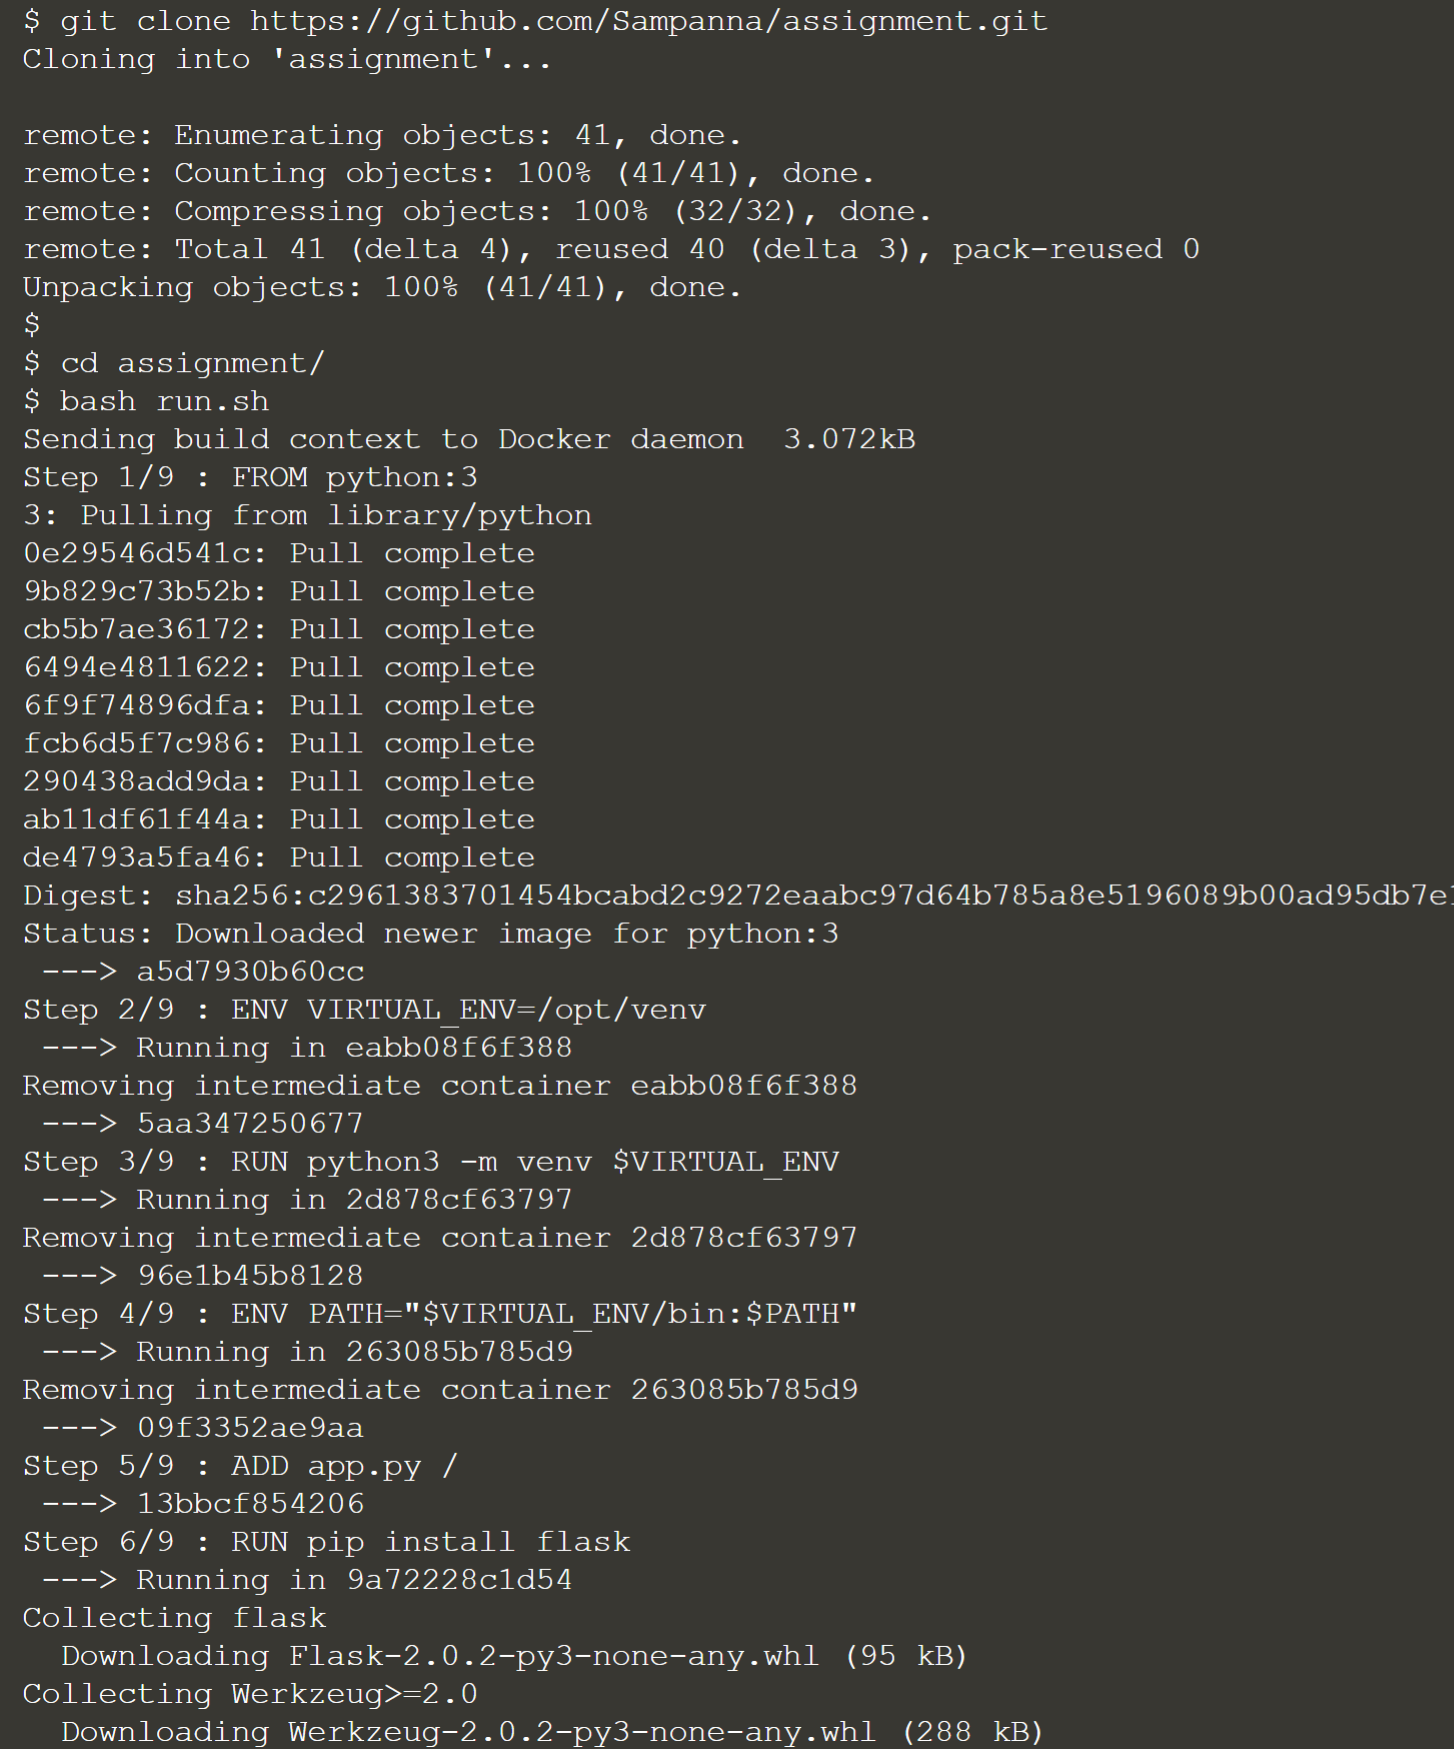
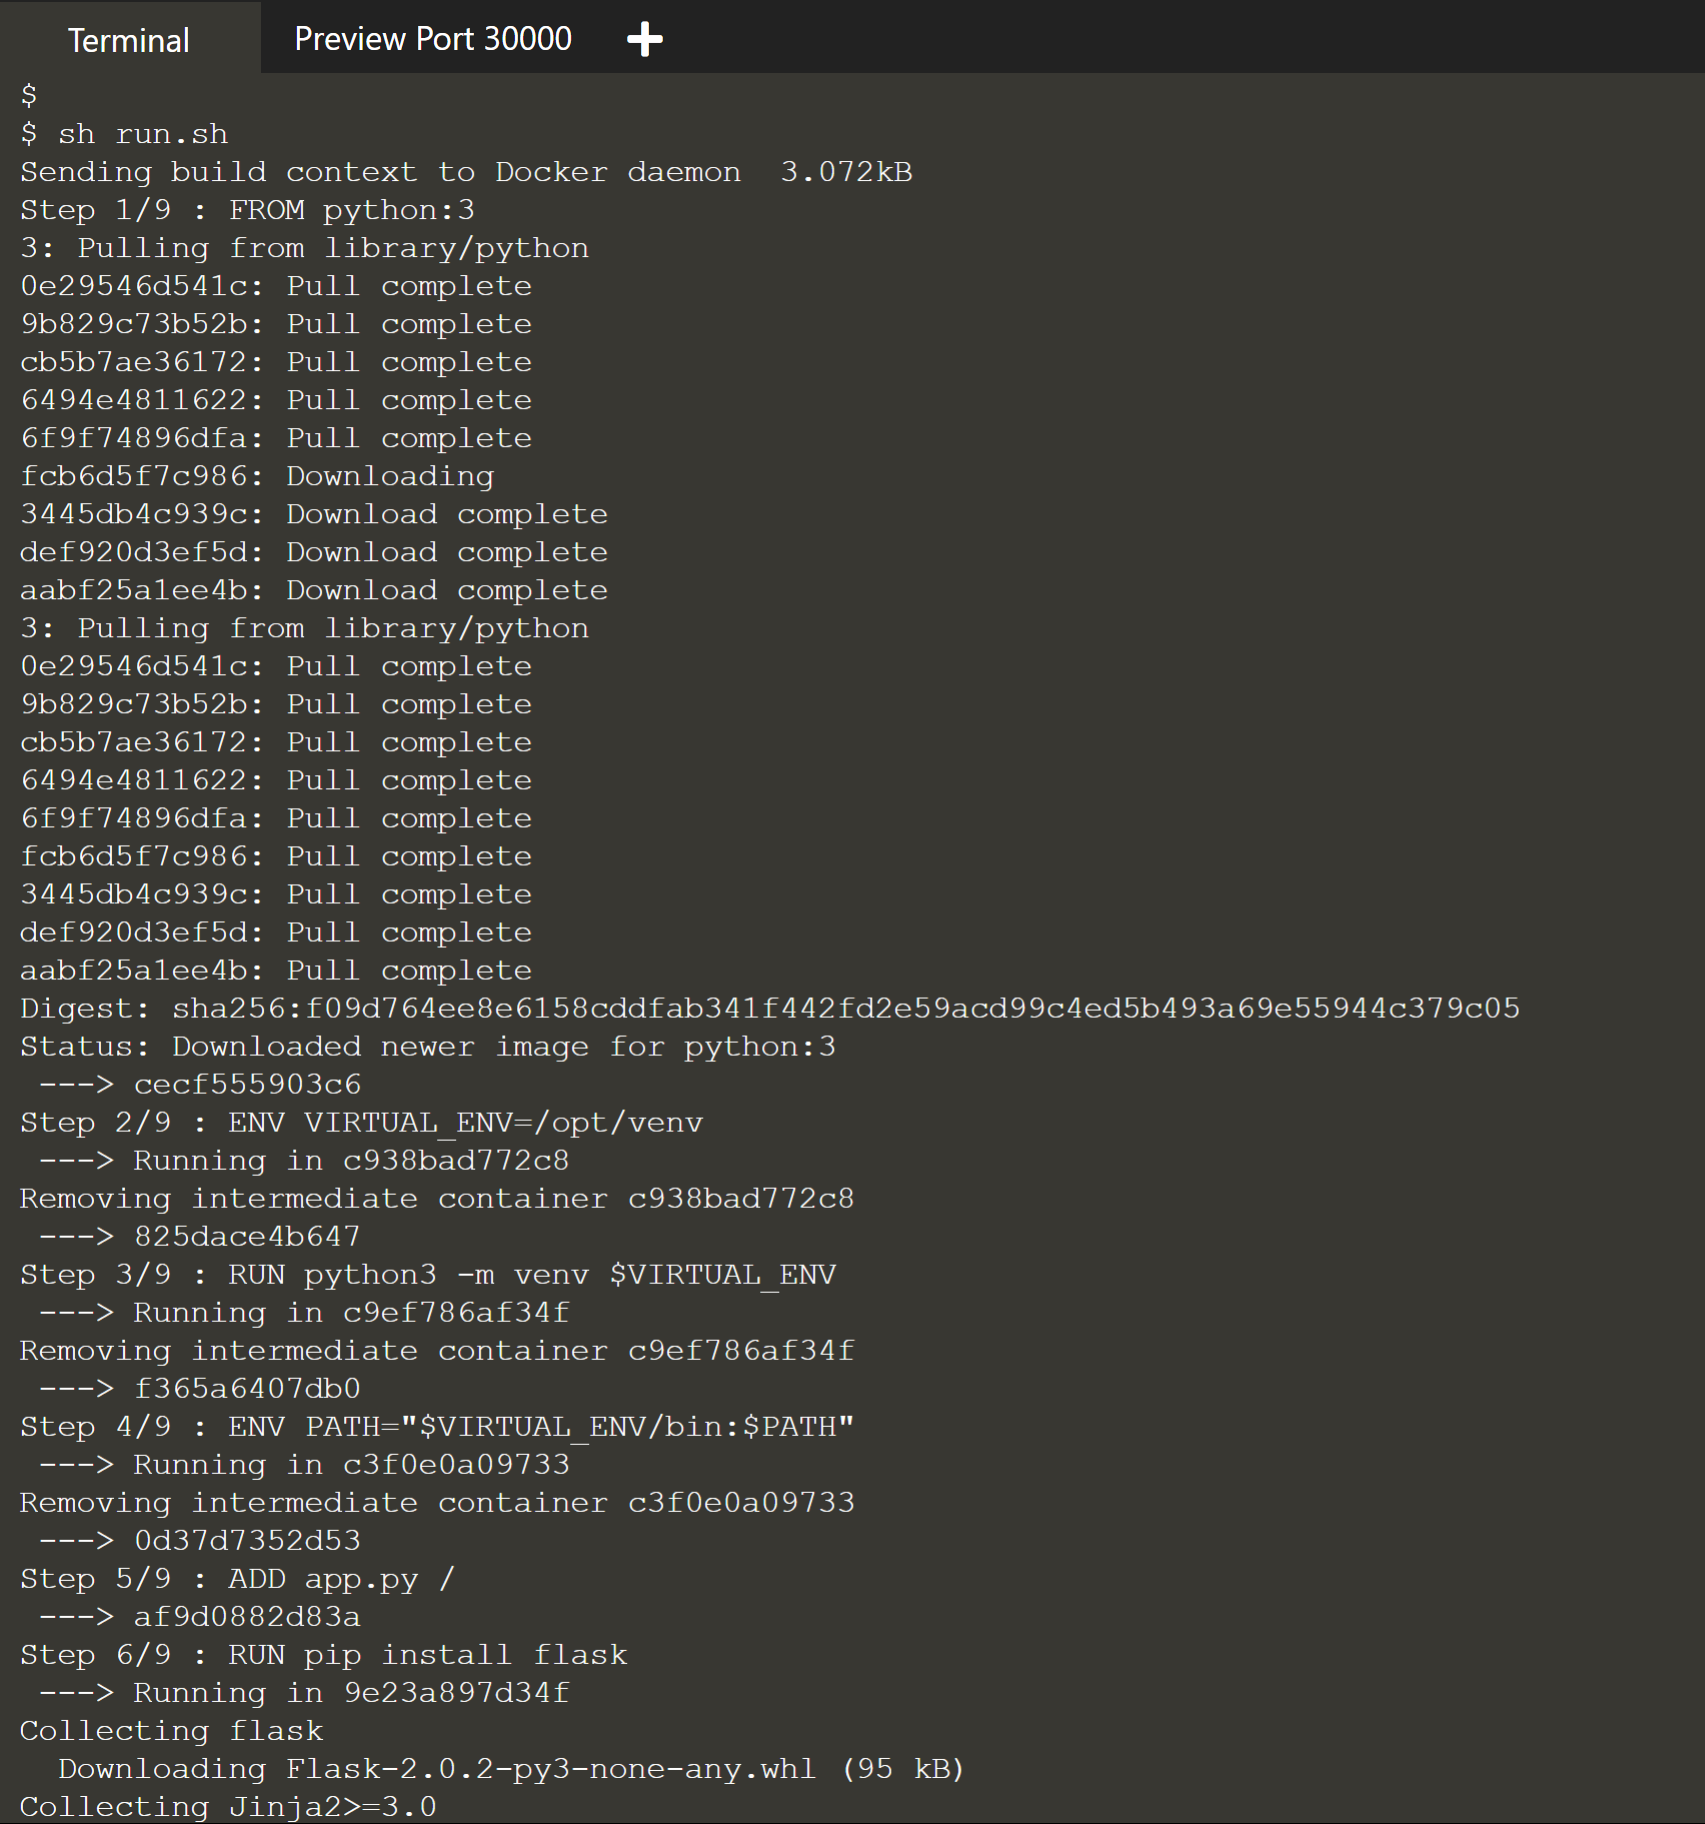
More details added

diff --git a/src/readme/readme.md b/src/readme/readme.md
@@ -31,7 +31,7 @@ This solution uses :
 1. kubectl is installed; min version 1.20.2.
 1. Docker is installed, the deamon is up and running. 
 1. Git is intalled and enabled.
-1. Once can use Python image of their choice.
+1. One can use Python image of their choice.
 1. One can use web server framework of their choice.
 
 ---
@@ -81,6 +81,10 @@ This article shows how to set up the app using online terminal for MiniKube
    
 ![Launch Terminal](./images/launchterminal.PNG)
 
+Wait till it opens the terminal
+
+![Launching Terminal](./images/launching-terminal.PNG) 
+
 This opens a small pane towards the bottom of the page. Please wait till you see the message 'Kubernetes started' as highligted below.
 
 ![Kubernetes Started](./images/kubernetes-started.PNG)
@@ -120,6 +124,9 @@ git clone https://github.com/Sampanna/assignment.git
 ```
 This will pull all the required files from GitHub.  
 
+![Git Clone](./images/clone.PNG)
+
+
 ## How to run the app
 
 Once the code is available, navigate to 'assignment' directory. 
@@ -135,14 +142,19 @@ sh run.sh
 
 ```
   
-Series of commands in run.sh file will take a bit to get all the components ready.   
+Series of commands in run.sh file will take a bit to get all the components ready.  Please ignore warnings related to 'pip version'
 
----
 **NOTE**  
 
-The image built using docker is available locally hence the 'imagePullPolicy' is set to Never in the deployment.yaml file.
-----
+Note1:    
 
+*run.sh* file contains a list of commands to create docker image, create replicaset and service required for the app to run. Once all the required components are in place, it then sends a http request using curl to get 'Hello World!' displayed on the console. One can choose to run these commands one after the other in the same sequence if they wish to.
+ 
+Note2:    
+
+The image built using docker is available locally hence the 'imagePullPolicy' is set to Never in the deployment.yaml file.
+
+----
 
 ![Run command output 1](./images/run-command-output1.PNG)
 
@@ -151,10 +163,7 @@ Wait for terminal to return till you see 'Hello World!' message (below)
 ![Run command output 2](./images/run-command-output2.PNG)
 
 ---
-**NOTE**  
 
-*run.sh* file contains a list of commands to create docker image, create replicaset and service required for the app to run. Once all the required components are in place, it then sends a http request using curl to get 'Hello World!' displayed on the console. One can choose to run these commands one after the other in the same sequence if they wish to.
----  
 
 
 ## Output from run.sh
